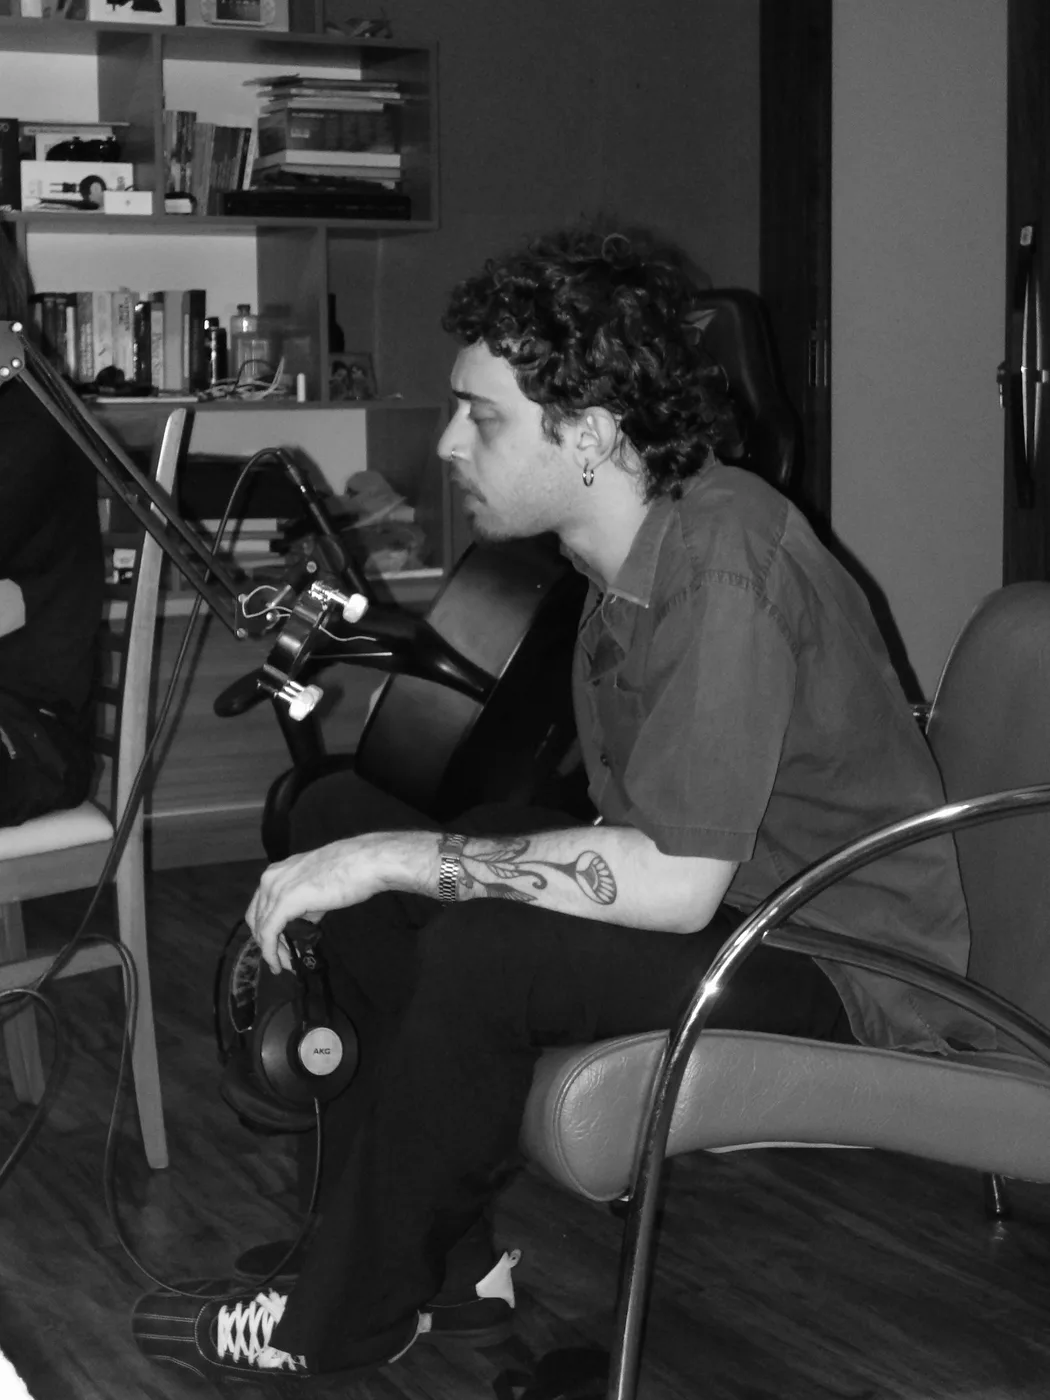
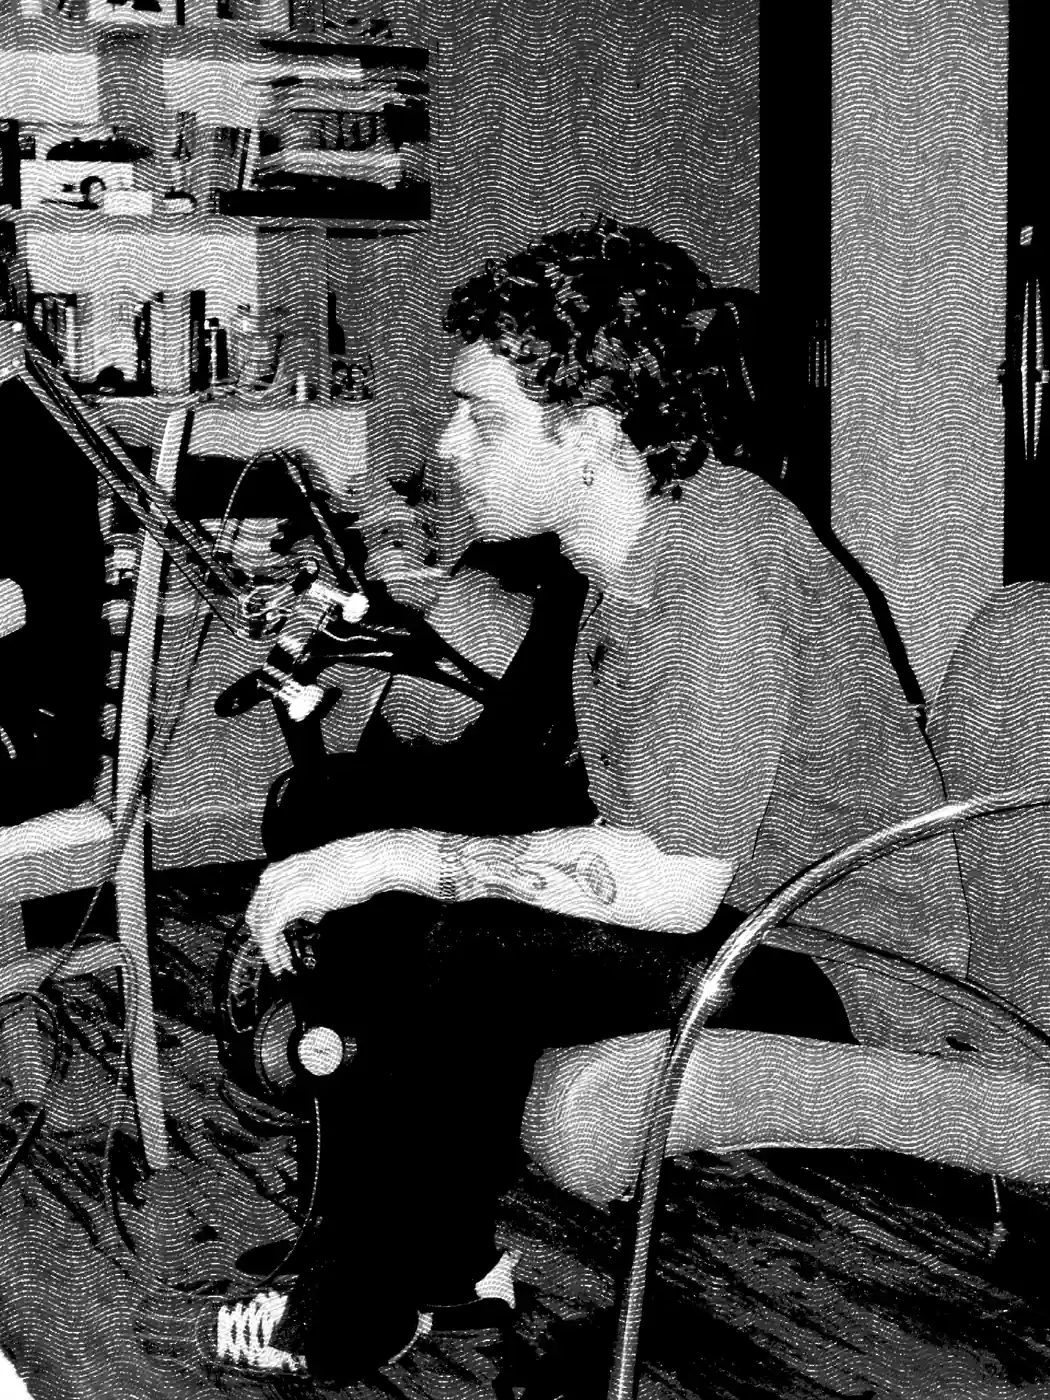
feat: foto nova no Contato, com o mesmo tratamento de gravura do retrato
Troca a foto da seção de Contato pela versão em "frames eu/contatos.jpg". É a
mesma cena de antes, agora com o tratamento de gravura (linhas onduladas em
meio tom) que o retrato da hero já usa: as duas imagens próprias do site
passam a falar a mesma língua em vez de uma ser foto lisa e a outra gravura.

A conversão virou script de bancada, como as outras duas imagens próprias já
tinham (scripts/build-contact-photo.mjs, sharp instalado por fora).

O ajuste é todo em função da trama: ruído de alta frequência é o pior caso
para qualquer compressor, e a mesma foto sai com 76 KB lisa contra mais de
400 KB com a trama, na mesma resolução e qualidade. Medido de 18 a 62 de
qualidade, o resultado é visualmente indistinguível (a trama já é quase
binária, não sobra gradiente sutil pra estragar) e o arquivo varia quase o
dobro. Ficou em 28, o mesmo número que build-frames.mjs já usava pelo mesmo
motivo: 216 KB.

Resolução mantida em 1050x1400, a que o layout já usava, e lanczos3 no
resize, porque um filtro mais mole borra a trama a ponto de virar cinza
chapado em vez de linha.

O texto alternativo não muda: ele descreve a interação da grade, não a cena.

Claude-Session: https://claude.ai/code/session_011DZqp6ygDNBy1oNfSJSYQq

diff --git a/docs/architecture.md b/docs/architecture.md
@@ -487,6 +487,22 @@ trabalho. A leva atual é toda de cor natural (concreto, telhado, areia, luz
 âmbar de estúdio, nuvem de fim de tarde, papel), que convive com o preto e
 branco em vez de gritar por cima dele. Vale para a mídia final também.
 
+**Imagens próprias** (o retrato da hero, os cursores e a foto do Contato) não
+são placeholder e não passam pelo `MediaView`: são convertidas na bancada por
+um script em `scripts/`, com `sharp` instalado por fora
+(`npm install --no-save sharp`, ele não entra no `package.json` porque é
+ferramenta de quem edita, não dependência do site), e o resultado versionado
+em `public/`.
+
+As três compartilham o mesmo tratamento de gravura, linhas onduladas em meio
+tom, e por isso o mesmo problema: trama fina é ruído de alta frequência, o
+pior caso para qualquer compressor. A mesma foto do Contato sai com 76 KB
+quando é lisa e passa de 400 KB com a trama, na mesma resolução e qualidade.
+A saída é qualidade baixa (28 nos três casos): de 18 a 62 o resultado é
+visualmente indistinguível, porque a trama já é quase binária e não sobra
+gradiente sutil para o compressor estragar, mas o arquivo varia quase o dobro.
+
+
 No Modo Boring nada disso existe: sem lua, sem menu, sem vídeo, só a página
 utilitária.
 
